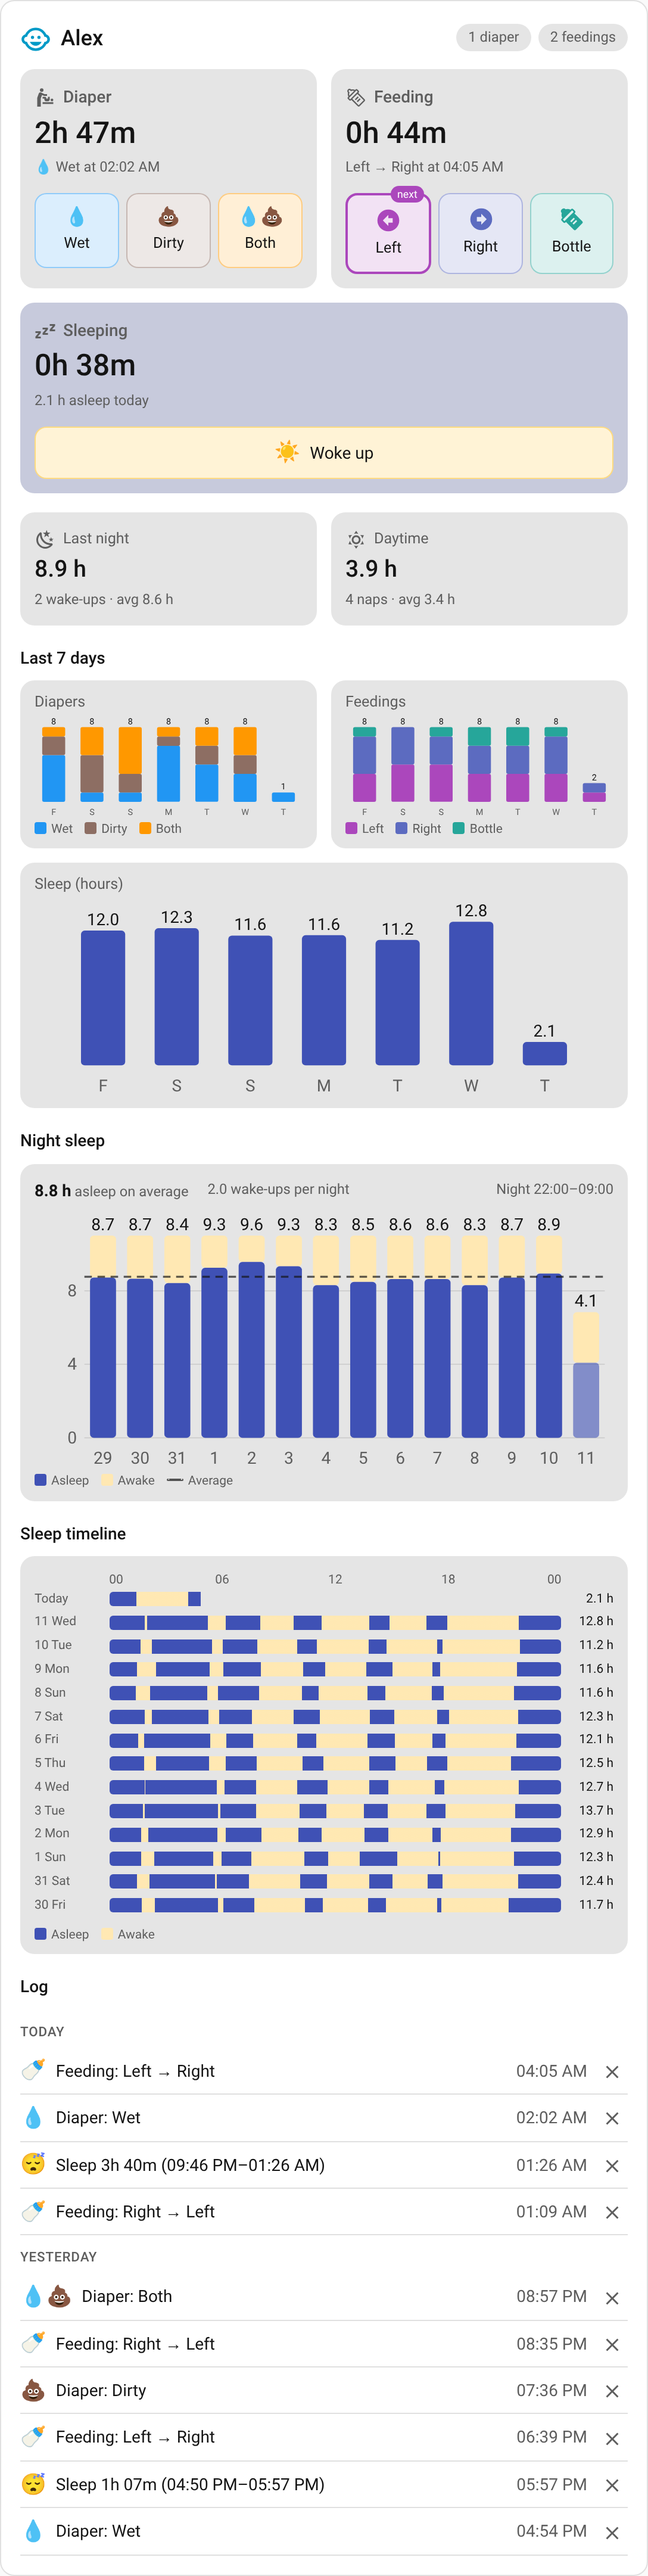
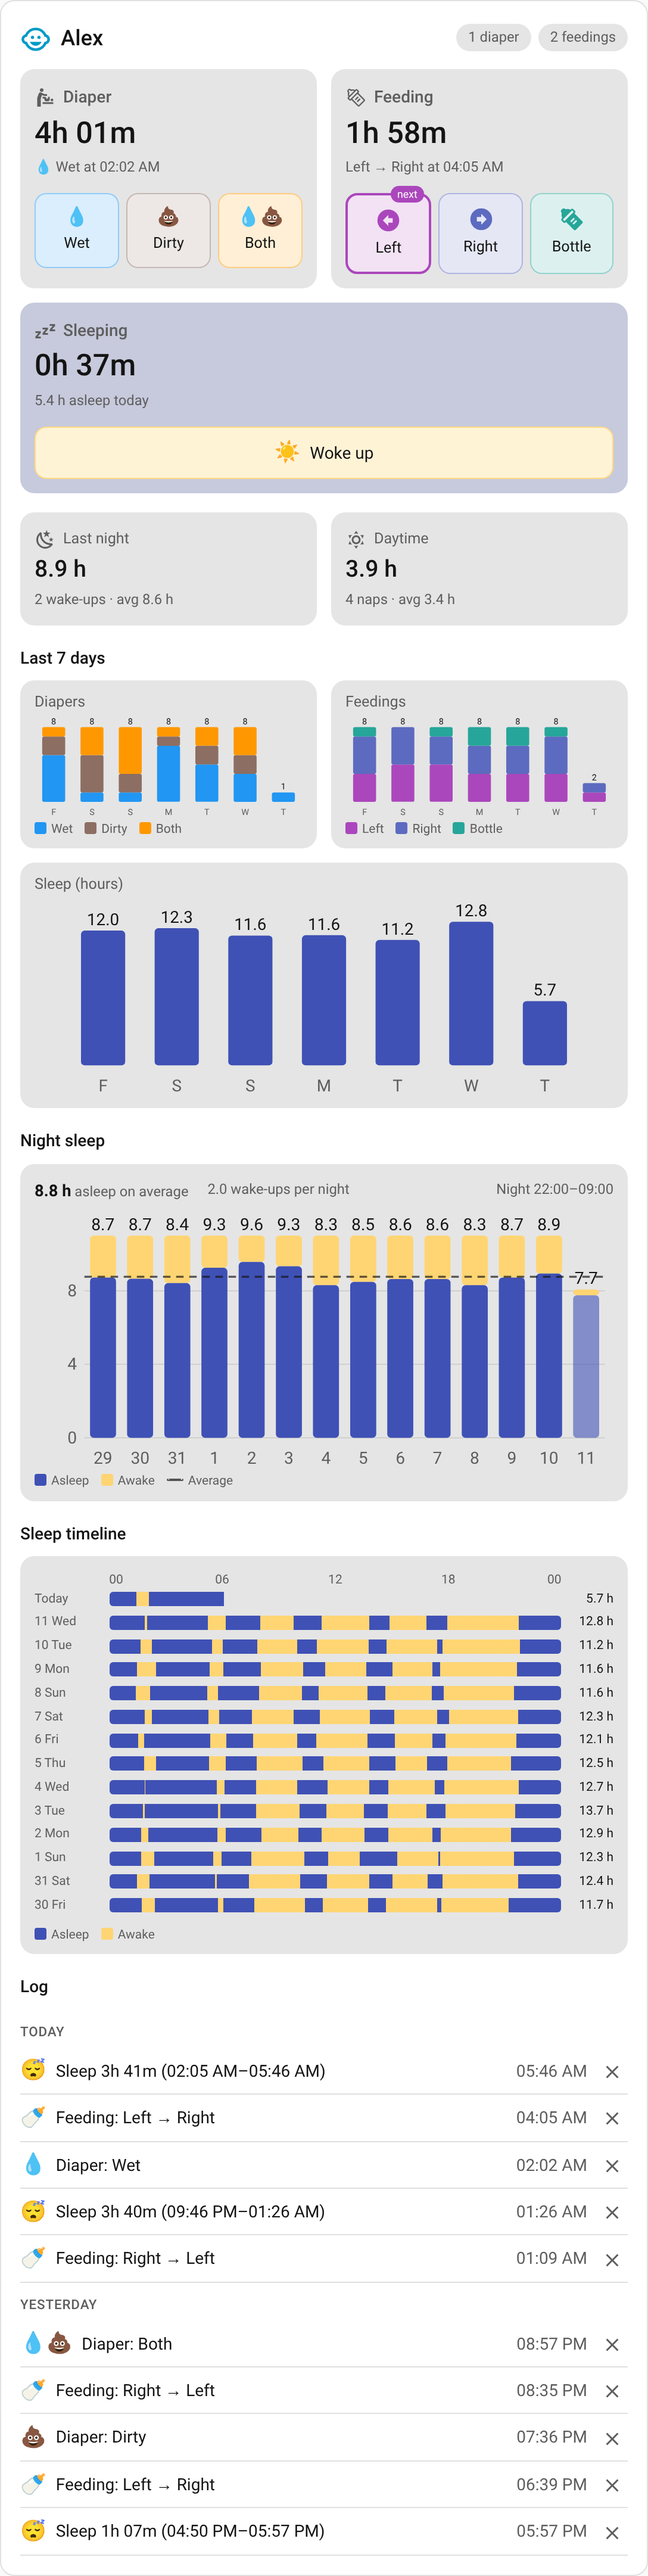
Darker yellow for awake time in the charts
Claude-Session: https://claude.ai/code/session_01AuxZxADs9gkoJRf59iK2qJ

diff --git a/custom_components/baby_tracker/frontend/baby-tracker-card.js b/custom_components/baby_tracker/frontend/baby-tracker-card.js
@@ -912,7 +912,7 @@ class BabyTrackerCard extends HTMLElement {
 const STYLE = `
   :host { display: block; }
   ha-card { padding: 16px; overflow: hidden; container: bt-card / inline-size;
-    --bt-sleep: ${SLEEP_COLORS.night}; --bt-awake: color-mix(in srgb, ${SLEEP_COLORS.day} 30%, var(--card-background-color)); }
+    --bt-sleep: ${SLEEP_COLORS.night}; --bt-awake: color-mix(in srgb, ${SLEEP_COLORS.day} 55%, var(--card-background-color)); }
   ha-icon { --mdc-icon-size: 18px; }
   .message { padding: 8px 0; color: var(--secondary-text-color); }
   .message.error { color: var(--error-color, #db4437); }
